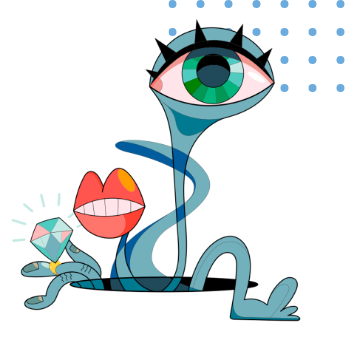
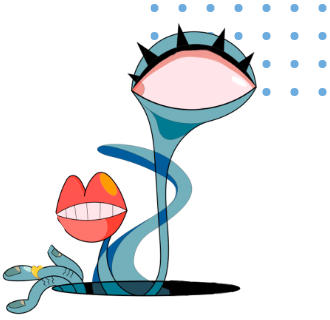
Feitas animações tablet até alien

diff --git a/src/styles/index.module.css b/src/styles/index.module.css
@@ -3058,24 +3058,24 @@
   width: 320px;
 }
 
-/*** DESABILITADO POR HORA ***/
-
 .astronautPoint {
-  background-image: url(../assets/mobile/astronautpoint.png);
-  width: 130px;
-  height: 143px;
-  margin: 20px 0 -30px 210px;
+  background-image: url(../assets/tablet/astronautpoint.png);
+  width: 246px;
+  height: 269px;
   animation: astronautpoint 10s linear infinite;
-  display: none;
+  position: absolute;
+  top: 0px;
+  left: -80px;
 }
 
 .astronautGuy {
-  background-image: url(../assets/mobile/astronautguy.png);
-  width: 269px;
-  height: 127px;
-  margin: 0 auto 80px auto;
+  background-image: url(../assets/tablet/astronautguy.png);
+  width: 321px;
+  height: 151px;
+  position: absolute;
+  top: 230px;
+  left: 5px;
   animation: astronaut 20s linear infinite;
-  display: none;
 }
 
 .astronautBlack {
@@ -3083,10 +3083,9 @@
   width: 24px;
   height: 24px;
   position: absolute;
-  top: 1050px;
-  left: 90px;
+  top: 150px;
+  left: 30px;
   animation: astronautblack 30s infinite linear;
-  display: none;
 }
 
 .astronautPink {
@@ -3095,10 +3094,9 @@
   height: 63px;
   position: absolute;
   position: absolute;
-  top: 1190px;
-  left: 50px;
+  top: 400px;
+  left: 0px;
   animation: astronautpink 10s linear infinite;
-  display: none;
 }
 
 .astronautBlue {
@@ -3106,16 +3104,12 @@
   width: 34px;
   height: 34px;
   position: absolute;
-  top: 1280px;
-  left: 290px;
+  top: 420px;
+  left: 300px;
   animation: astronautblue 10s linear infinite;
-  display: none;
 }
 
-/*** FIM DO DESABILITADO POR HORA ***/
-
 .aboutImage {
-  background-image: url(../assets/tablet/astronaut.png);
   width: 331px;
   height: 488px;
   transform: scale(1);
@@ -3168,45 +3162,42 @@
 }
 
 .teamArt {
-  background-image: url(../assets/desktop_s/teamart.png);
   width: 603px;
   height: 603px;
   position: absolute;
-  top: 1340px;
-  left: -100px;
-  transform: scale(0.75);
+  top: 800px;
+  left: 50px;
+  transform: scale(1);
 }
 
-/*** DESABILITADO POR HORA ***/
-
 .teamGirl {
-  background-image: url(../assets/mobile/teamgirl.png);
-  width: 160px;
-  height: 210px;
-  margin: 0 0 0 108px;
-  display: none;
+  background-image: url(../assets/tablet/teamgirl.png);
+  width: 220px;
+  height: 300px;
+  position: absolute;
+  top: -100px;
+  left: -87px;
+  transform: scale(1.2);
 }
 
 .teamCrown {
-  background-image: url(../assets/mobile/teamcrown.png);
-  width: 38px;
-  height: 24px;
-  margin: -230px 0 0 145px;
-  animation: crown 5s infinite linear;
-  display: none;
+  background-image: url(../assets/tablet/teamcrown.png);
+  width: 52px;
+  height: 32px;
+  position: absolute;
+  top: -280px;
+  left: 70px;
 }
 
 .teamShine {
-  background-image: url(../assets/mobile/teamshine.png);
-  width: 24px;
-  height: 24px;
-  margin: 21px 0 0 176px;
-  transform: scale(0.5);
-  animation: shine 5s infinite linear;
-  display: none;
+  background-image: url(../assets/tablet/teamshine.png);
+  width: 17px;
+  height: 17px;
+  position: absolute;
+  top: -65px;
+  left: 126px;
+  animation: shine 3s infinite linear;
 }
-
-/*** FIM DO DESABILITADO POR HORA ***/
 
 .teamTitle {
   font-size: 45px;
@@ -3236,53 +3227,51 @@
 }
 
 .wwdAlien {
-  background-image: url(../assets/tablet/alien.png);
   width: 351px;
   height: 337px;
   position: absolute;
-  top: 2685px;
-  left: 410px;
+  top: 1490px;
+  left: 0px;
 }
-
 
 /*** DESABILITADO POR HORA ***/
 
 .alien {
-  background-image: url(../assets/mobile/alien.png);
-  width: 300px;
-  height: 190px;
-  margin: -148px 0 0 70px;
-  position: relative;
-  display: none;
+  background-image: url(../assets/tablet/alien.png);
+  width: 330px;
+  height: 320px;
+  position: absolute;
+  top: 20px;
+  left: 410px;
 }
 
 .alienDiamond {
-  background-image: url(../assets/mobile/aliendiamond.png);
-  width: 46px;
-  height: 45px;
-  margin: -125px 0 0 60px;
+  background-image: url(../assets/tablet/aliendiamond.png);
+  width: 72px;
+  height: 72px;
   transform: scale(0.8);
-  animation: diamond 8s linear infinite;
-  display: none;
+  position: absolute;
+  top: 50px;
+  left: 470px;
 }
 
 .alienLeg {
-  background-image: url(../assets/mobile/alienleg.png);
-  width: 72px;
-  height: 56px;
-  margin: 80px 0 0 180px;
-  animation: leg 3s linear infinite;
-  display: none;
+  background-image: url(../assets/tablet/alienleg.png);
+  width: 113px;
+  height: 87px;
+  position: absolute;
+  top: 105px;
+  left: 670px;
 }
 
 .alienEye {
-  background-image: url(../assets/mobile/alieneye.png);
-  width: 39px;
-  height: 36px;
-  margin: -172px 0 0 173px;
+  background-image: url(../assets/tablet/alieneye.png);
+  width: 62px;
+  height: 62px;
   position: relative;
-  animation: eye 9s linear infinite;
-  display: none;
+  position: absolute;
+  top: -81px;
+  left: 580px;
 }
 
 /*** FIM DO DESABILITADO POR HORA ***/

diff --git a/src/pages/index.js b/src/pages/index.js
@@ -337,6 +337,17 @@ export default function LandingPage() {
 
 /***** WINDOW SIZE & CLIENTS CAROUSEL  *****/
 
+const [offsetY, setOffsetY] = useState(0);
+
+const handleScroll = () => setOffsetY(window.pageYOffset);
+
+useEffect(() => {
+
+  window.addEventListener('scroll', handleScroll);
+  return () => window.removeEventListener('scroll', handleScroll);
+
+}, [])
+
 function useWindowSize() {
   const [windowSize, setWindowSize] = useState({
     width: undefined,
@@ -1142,17 +1153,6 @@ function renderObjectSize() {
 
 /***** PARALLAX ANIMATIONS *****/
   
-const [offsetY, setOffsetY] = useState(0);
-
-const handleScroll = () => setOffsetY(window.pageYOffset);
-
-useEffect(() => {
-
-window.addEventListener('scroll', handleScroll);
-return () => window.removeEventListener('scroll', handleScroll);
-
-}, [])
-
 function parallaxAnimTeam() {
   if (size.width < 768){
     return (
@@ -1162,7 +1162,15 @@ function parallaxAnimTeam() {
         <div className={styles.teamShine} style={{transform: `translateX(${offsetY * 0.0}px) rotate(${offsetY / 2}deg) `}} />
       </div>
     )
-  }
+  } if (size.width >= 768 && size.width < 1200){
+    return (
+      <div className={styles.teamArt} >
+        <div className={styles.teamGirl} />
+        <div className={styles.teamCrown} style={{transform: `translateY(${offsetY * 0.1}px) scale(1.2)`}}  />
+        <div className={styles.teamShine} style={{transform: `translateX(${offsetY * 0.0}px) rotate(${offsetY / 2}deg) scale(1.2)`}} />
+      </div>
+    )
+  } 
 }
 
 function parallaxAnimAlien() {
@@ -1175,7 +1183,16 @@ function parallaxAnimAlien() {
           <div className={styles.alienLeg} style={{transform: `translateY(${offsetY * 0.01}px) translateX(${offsetY * -0.01}px) rotate(${offsetY / 11.2}deg)`}}/>
       </div>
     )
-  }
+  } if (size.width >= 768 && size.width < 1200){
+    return (
+      <div className={styles.wwdAlien} >
+          <div className={styles.alienDiamond} style={{transform: `rotate(${offsetY / -3.8}deg) scale(1.2)`}} />
+          <div className={styles.alien}/>
+          <div className={styles.alienEye} style={{transform: `translateX(${offsetY * 0.03}px)`}}/>
+          <div className={styles.alienLeg} style={{transform: `translateY(${offsetY * 0.01}px) translateX(${offsetY * -0.01}px) rotate(${offsetY / 90}deg)`}}/>
+      </div>
+    )
+  } 
 }
 
 function parallaxAnimClient() {
